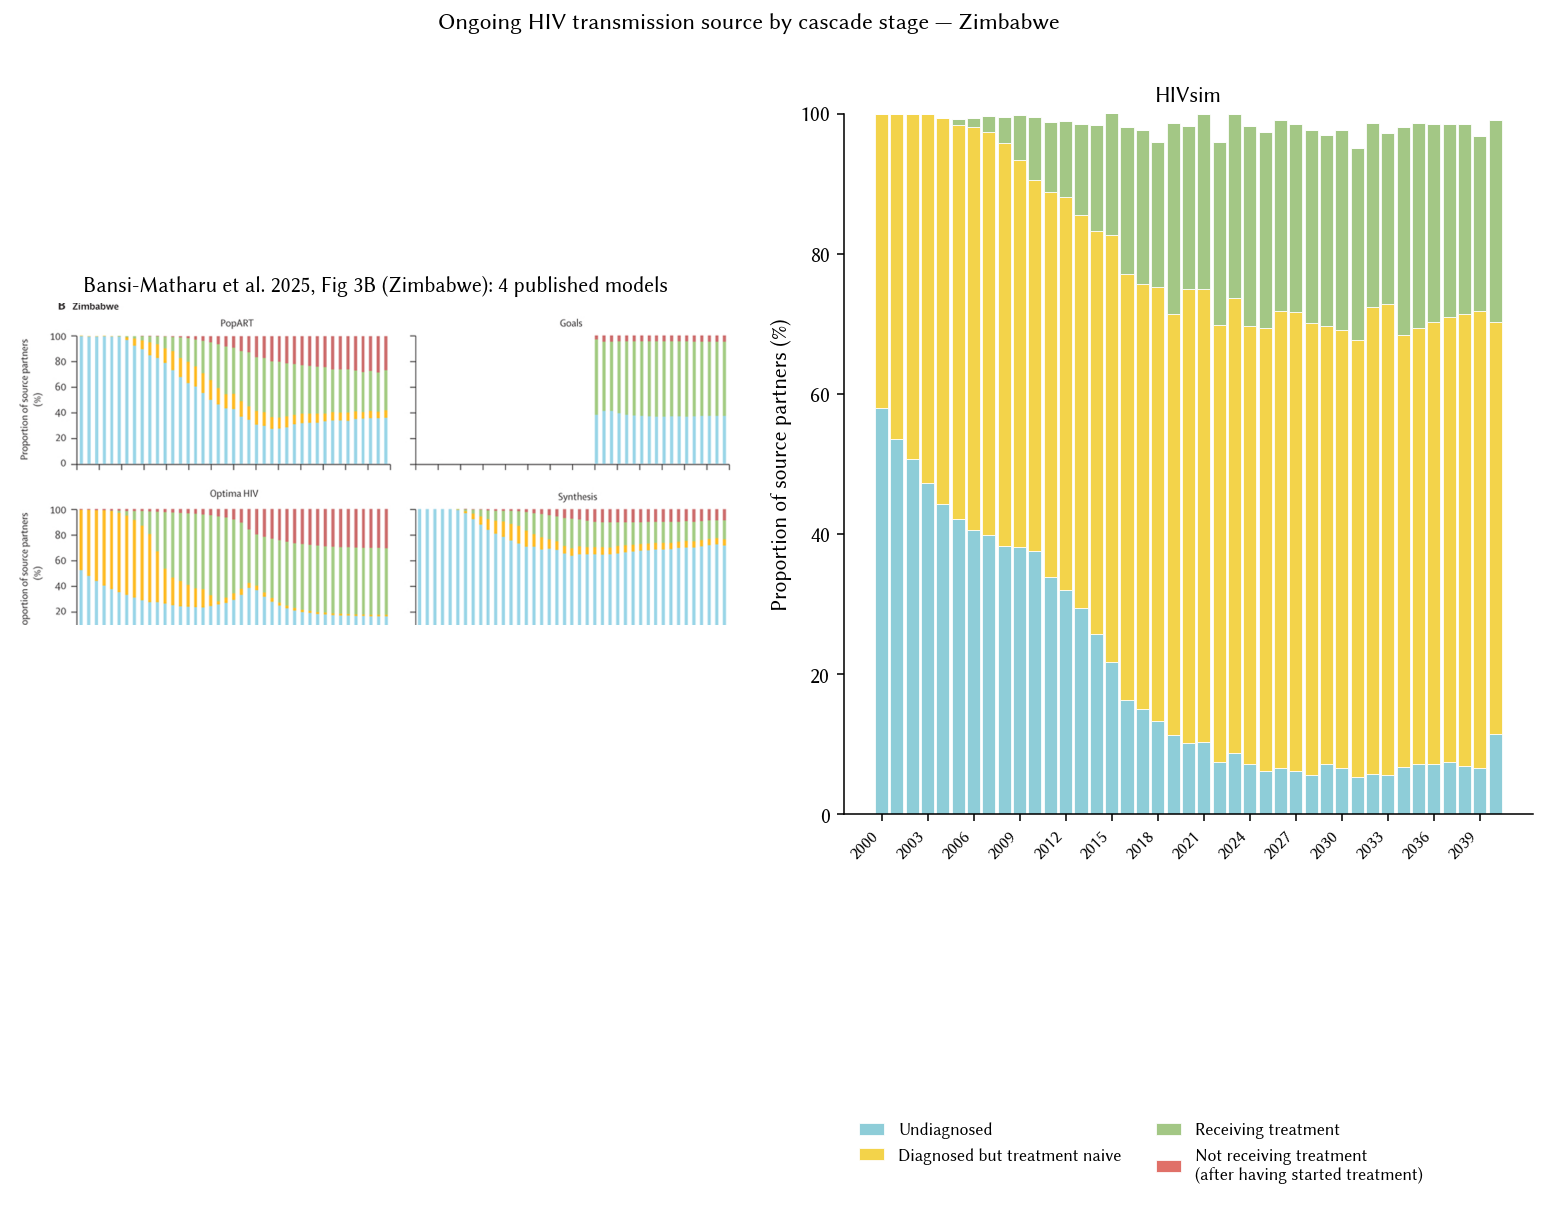
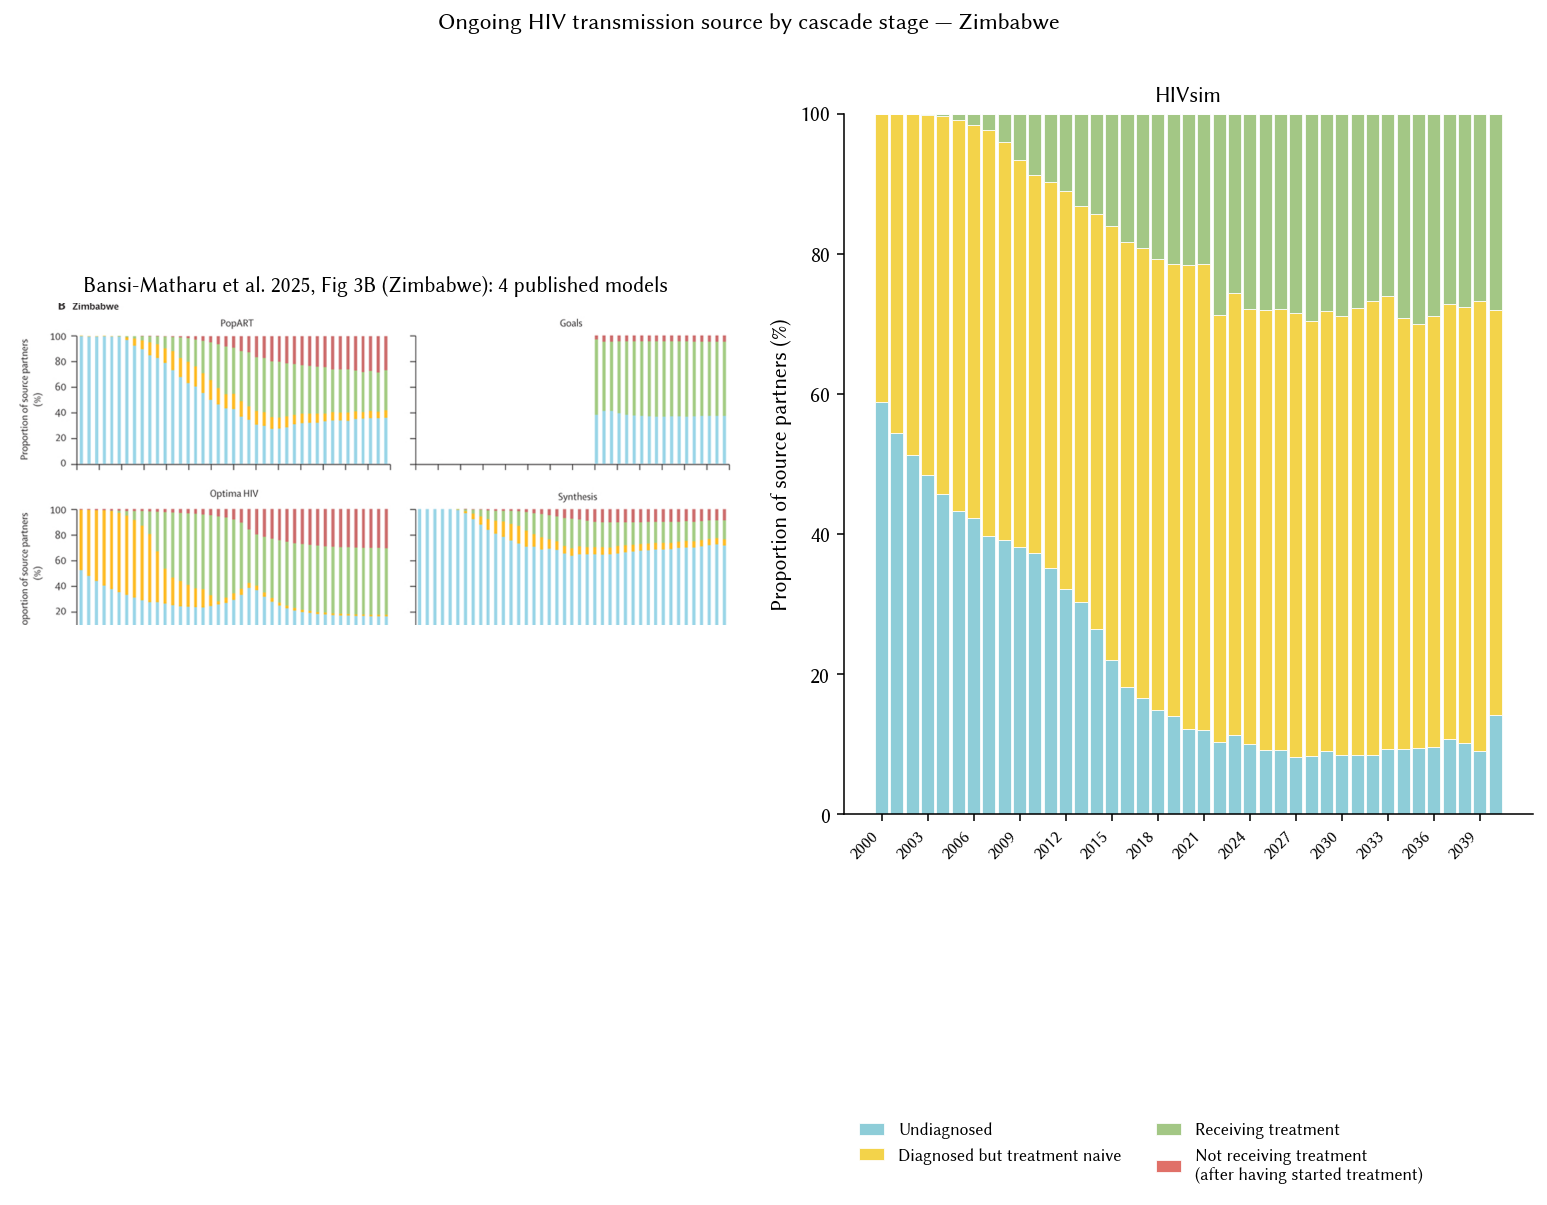
Fix Fig 3B / transmission-by-stage aggregation to sum to 100
Median-per-share across the ensemble doesn't sum to 100 (each share is
medianed independently). Correct approach: aggregate raw counts across
draws x seeds first, then compute shares.

- plot_fig3_replica.py: sum trans_* counts across ensemble per year, then
  divide. Verified: shares now sum to 100.0 at all years.
- plot_paper_b.py: switch the 2024 bar chart to ensemble mean of per-sim
  shares (same-value invariant preserved). Error bars now min-max.

2024 HIVsim shares (sums to 100):
  undiagnosed          10.1
  diag_not_on_art      62.0
  on_art               27.9
  post_art              0.0

diff --git a/plot_fig3_replica.py b/plot_fig3_replica.py
@@ -47,29 +47,30 @@ LABELS = {
 
 
 def compute_hivsim_shares(df, years):
-    """For each year in `years`, take the ensemble median of the shares."""
+    """Ensemble transmission attribution as a % of total, summing to 100.
+
+    Aggregating raw counts across the ensemble FIRST (sum over draws x seeds)
+    then dividing keeps the four shares self-consistent — taking medians per
+    share independently does not. Missing years get NaN so the bars are blank.
+    """
     d = df[df.year.isin(years)].copy()
-    d['total'] = (d.trans_undiagnosed_per_year
-                  + d.trans_diag_not_on_art_per_year
-                  + d.trans_on_art_per_year
-                  + d.trans_post_art_per_year)
-    d['share_undiag']   = np.where(d.total > 0, d.trans_undiagnosed_per_year     / d.total * 100, np.nan)
-    d['share_diag_no']  = np.where(d.total > 0, d.trans_diag_not_on_art_per_year / d.total * 100, np.nan)
-    d['share_on_art']   = np.where(d.total > 0, d.trans_on_art_per_year          / d.total * 100, np.nan)
-    d['share_post']     = np.where(d.total > 0, d.trans_post_art_per_year        / d.total * 100, np.nan)
-    med = d.groupby('year').median(numeric_only=True)[
-        ['share_undiag', 'share_diag_no', 'share_on_art', 'share_post']]
-    return med.reindex(years)
+    cols_raw = ['trans_undiagnosed_per_year', 'trans_diag_not_on_art_per_year',
+                'trans_on_art_per_year',      'trans_post_art_per_year']
+    agg = d.groupby('year')[cols_raw].sum()
+    totals = agg.sum(axis=1)
+    shares = agg.divide(totals.where(totals > 0, np.nan), axis=0) * 100
+    shares.columns = ['share_undiag', 'share_diag_no', 'share_on_art', 'share_post']
+    return shares.reindex(years)
 
 
-def plot_hivsim_panel(ax, med, years):
+def plot_hivsim_panel(ax, shares, years):
     xs = np.arange(len(years))
     width = 0.85
     bottom = np.zeros(len(years))
+    key_to_col = {'undiag': 'share_undiag', 'diag_no': 'share_diag_no',
+                  'on_art': 'share_on_art', 'post_art': 'share_post'}
     for key in ['undiag', 'diag_no', 'on_art', 'post_art']:
-        col = f'share_{key}' if key != 'post_art' else 'share_post'
-        vals = med[col].to_numpy()
-        vals = np.nan_to_num(vals, nan=0.0)
+        vals = np.nan_to_num(shares[key_to_col[key]].to_numpy(), nan=0.0)
         ax.bar(xs, vals, width, bottom=bottom, color=COLORS[key], label=LABELS[key],
                edgecolor='white', linewidth=0.4)
         bottom = bottom + vals
@@ -86,7 +87,7 @@ def plot_hivsim_panel(ax, med, years):
 def main():
     df = pd.read_parquet(OUT)
     years = list(range(2000, 2041))
-    med = compute_hivsim_shares(df, years)
+    shares = compute_hivsim_shares(df, years)
 
     # Left panel: paper Fig 3B (Zimbabwe subplot images embedded as reference)
     fig = plt.figure(figsize=(14, 6.5))
@@ -109,7 +110,7 @@ def main():
     ax_ref.axis('off')
 
     ax = fig.add_subplot(gs[0, 1])
-    plot_hivsim_panel(ax, med, years)
+    plot_hivsim_panel(ax, shares, years)
     ax.legend(loc='lower left', bbox_to_anchor=(0.0, -0.55), fontsize=9,
               frameon=False, ncol=2, handlelength=1.4)
 

diff --git a/plot_paper_b.py b/plot_paper_b.py
@@ -57,9 +57,12 @@ def cascade_summary(df, col):
 
 
 def transmission_shares_at_year(df, year):
-    """For each (draw, seed) at `year`, compute the % share of transmissions
-    coming from each cascade stage. Returns a DataFrame with columns
-    [draw_idx, sub_idx, share_undiag, share_diag_no, share_on_art, share_post].
+    """Per-sim share of transmissions by cascade stage.
+
+    Each sim's four shares sum to 100 by construction. Aggregating across
+    the ensemble should use either (a) raw-count-sum then shares, or
+    (b) mean of per-sim shares — median-per-share alone does not
+    preserve the sum-to-100 invariant.
     """
     sub = df[df.year == year].copy()
     sub['total'] = (sub.trans_undiagnosed_per_year
@@ -115,14 +118,16 @@ def plot_transmission_by_stage(df, year=2024):
     xs = np.arange(len(stage_labels))
     width = 0.35
 
-    # HIVsim: 5-95th percentile
-    med  = [shares[c].median() for c in cols]
-    p05  = [shares[c].quantile(0.05) for c in cols]
-    p95  = [shares[c].quantile(0.95) for c in cols]
-    yerr = np.array([[m - lo for m, lo in zip(med, p05)],
-                     [hi - m for m, hi in zip(med, p95)]])
-    ax.bar(xs - width/2, med, width, yerr=yerr, capsize=4,
-           color='#2b5f8a', alpha=0.85, label='HIVsim median (5-95th %ile)')
+    # HIVsim: use ensemble MEAN of per-sim shares. Each sim's shares sum to
+    # 100, so mean-across-sims also sums to 100 (which median-per-share
+    # does not). Error bars: min/max across the ensemble.
+    mean_shares = [shares[c].mean() for c in cols]
+    lo  = [shares[c].min() for c in cols]
+    hi  = [shares[c].max() for c in cols]
+    yerr = np.array([[m - l for m, l in zip(mean_shares, lo)],
+                     [h - m for m, h in zip(mean_shares, hi)]])
+    ax.bar(xs - width/2, mean_shares, width, yerr=yerr, capsize=4,
+           color='#2b5f8a', alpha=0.85, label='HIVsim ensemble mean (min-max)')
 
     # Paper B: 4-model range
     paper_med  = [(PAPER_B_2024[p][0] + PAPER_B_2024[p][1]) / 2 for p in paper]
